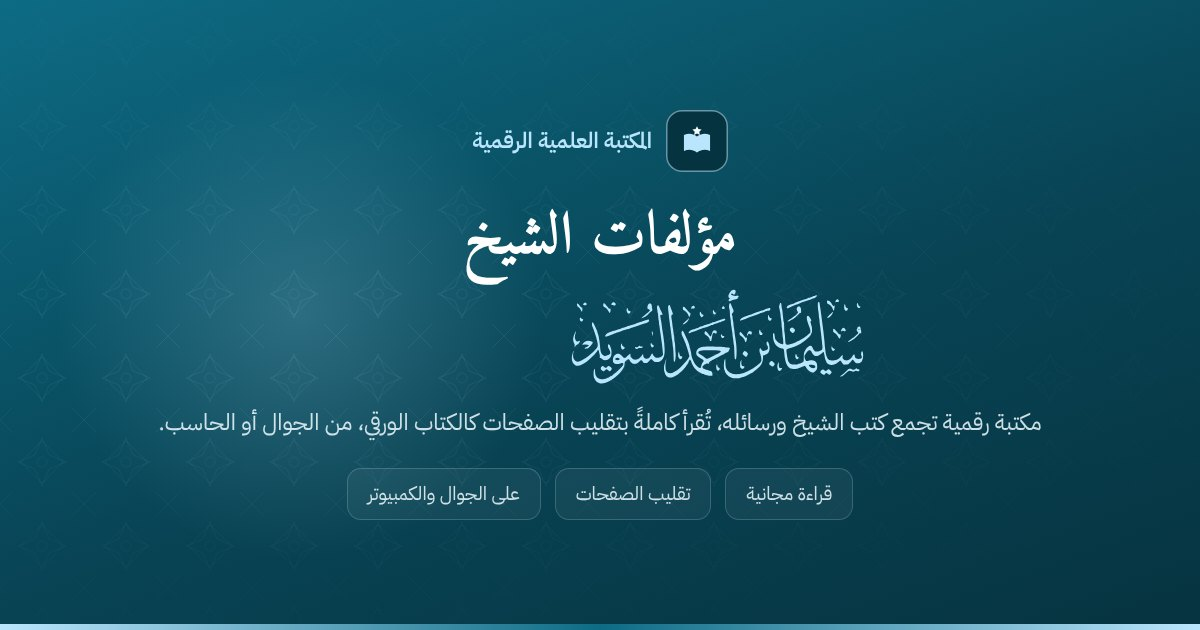
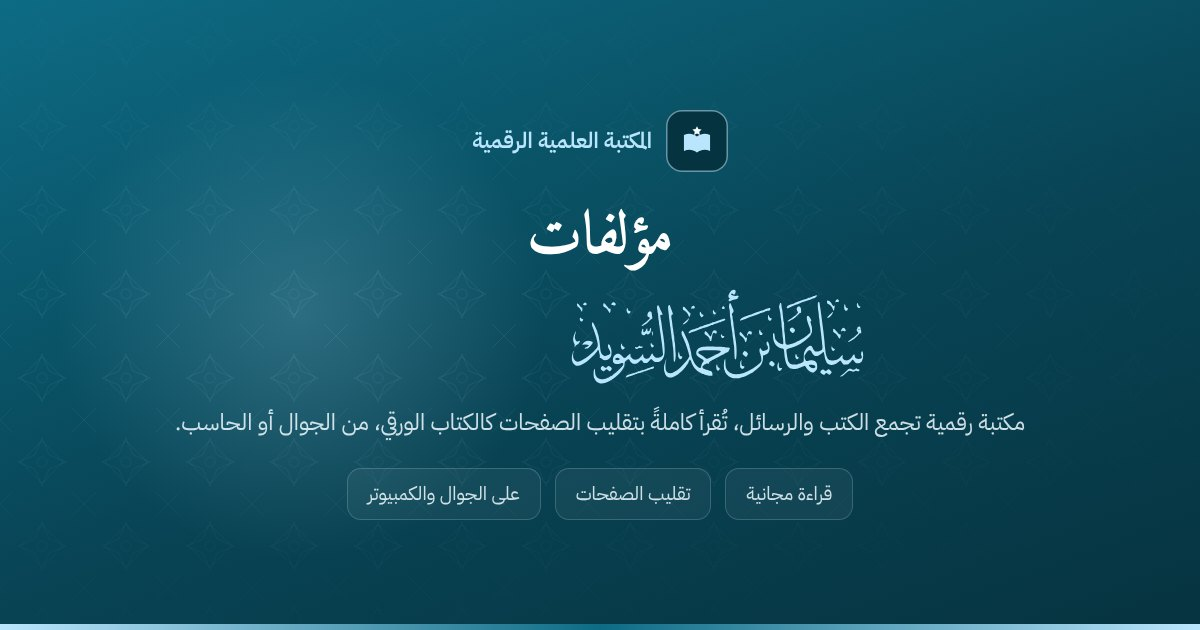
Add files via upload

Changed region(s): [[0.1233, 0.6333, 0.8633, 0.6937], [0.37, 0.3317, 0.6167, 0.4524], [0.4933, 0.4825, 0.555, 0.5429]]

diff --git a/kitab/book-01.html b/kitab/book-01.html
@@ -3,33 +3,33 @@
 <head>
 <meta charset="utf-8">
 <meta name="viewport" content="width=device-width,initial-scale=1">
-<title>الأربعون التعليمية - من حديث معلم البشرية ﷺ — سليمان بن أحمد السويد | مؤلفات الشيخ سليمان بن أحمد السويد</title>
-<meta name="description" content="كتاب «الأربعون التعليمية - من حديث معلم البشرية ﷺ» — سليمان بن أحمد السويد، من تصنيف الحديث النبوي، في ١٠٩ صفحات. اقرأه مجاناً بتقليب الصفحات في مؤلفات الشيخ سليمان بن أحمد السويد.">
-<link rel="canonical" href="https://mohdalshehri.github.io/maktaba/kitab/book-01.html">
+<title>الأربعون التعليمية - من حديث معلم البشرية ﷺ — سليمان بن أحمد السويد | مؤلفات سليمان بن أحمد السويد</title>
+<meta name="description" content="كتاب «الأربعون التعليمية - من حديث معلم البشرية ﷺ» — سليمان بن أحمد السويد، من تصنيف الحديث النبوي، في ١٠٩ صفحات. اقرأه مجاناً بتقليب الصفحات في مؤلفات سليمان بن أحمد السويد.">
+<link rel="canonical" href="https://sulaimanalsuwaid.github.io/kitab/book-01.html">
 <meta property="og:type" content="book">
 <meta property="og:locale" content="ar_SA">
-<meta property="og:site_name" content="مؤلفات الشيخ سليمان بن أحمد السويد">
+<meta property="og:site_name" content="مؤلفات سليمان بن أحمد السويد">
 <meta property="og:title" content="الأربعون التعليمية - من حديث معلم البشرية ﷺ — سليمان بن أحمد السويد">
-<meta property="og:description" content="كتاب «الأربعون التعليمية - من حديث معلم البشرية ﷺ» — سليمان بن أحمد السويد، من تصنيف الحديث النبوي، في ١٠٩ صفحات. اقرأه مجاناً بتقليب الصفحات في مؤلفات الشيخ سليمان بن أحمد السويد.">
-<meta property="og:url" content="https://mohdalshehri.github.io/maktaba/kitab/book-01.html">
-<meta property="og:image" content="https://mohdalshehri.github.io/maktaba/covers/book-01.jpg">
+<meta property="og:description" content="كتاب «الأربعون التعليمية - من حديث معلم البشرية ﷺ» — سليمان بن أحمد السويد، من تصنيف الحديث النبوي، في ١٠٩ صفحات. اقرأه مجاناً بتقليب الصفحات في مؤلفات سليمان بن أحمد السويد.">
+<meta property="og:url" content="https://sulaimanalsuwaid.github.io/kitab/book-01.html">
+<meta property="og:image" content="https://sulaimanalsuwaid.github.io/covers/book-01.jpg">
 <meta property="og:image:alt" content="الأربعون التعليمية - من حديث معلم البشرية ﷺ">
 <meta name="twitter:card" content="summary_large_image">
 <meta name="twitter:title" content="الأربعون التعليمية - من حديث معلم البشرية ﷺ">
-<meta name="twitter:description" content="كتاب «الأربعون التعليمية - من حديث معلم البشرية ﷺ» — سليمان بن أحمد السويد، من تصنيف الحديث النبوي، في ١٠٩ صفحات. اقرأه مجاناً بتقليب الصفحات في مؤلفات الشيخ سليمان بن أحمد السويد.">
-<meta name="twitter:image" content="https://mohdalshehri.github.io/maktaba/covers/book-01.jpg">
+<meta name="twitter:description" content="كتاب «الأربعون التعليمية - من حديث معلم البشرية ﷺ» — سليمان بن أحمد السويد، من تصنيف الحديث النبوي، في ١٠٩ صفحات. اقرأه مجاناً بتقليب الصفحات في مؤلفات سليمان بن أحمد السويد.">
+<meta name="twitter:image" content="https://sulaimanalsuwaid.github.io/covers/book-01.jpg">
 <script type="application/ld+json">
 {
  "@context": "https://schema.org",
  "@type": "Book",
  "name": "الأربعون التعليمية - من حديث معلم البشرية ﷺ",
  "inLanguage": "ar",
- "url": "https://mohdalshehri.github.io/maktaba/kitab/book-01.html",
- "image": "https://mohdalshehri.github.io/maktaba/covers/book-01.jpg",
+ "url": "https://sulaimanalsuwaid.github.io/kitab/book-01.html",
+ "image": "https://sulaimanalsuwaid.github.io/covers/book-01.jpg",
  "isPartOf": {
   "@type": "WebSite",
-  "name": "مؤلفات الشيخ سليمان بن أحمد السويد",
-  "url": "https://mohdalshehri.github.io/maktaba/"
+  "name": "مؤلفات سليمان بن أحمد السويد",
+  "url": "https://sulaimanalsuwaid.github.io/"
  },
  "author": {
   "@type": "Person",
@@ -79,13 +79,13 @@
   <div class="wrap">
     <a class="brand" href="../" aria-label="الصفحة الرئيسية">
       <span class="brand-mark"><svg viewBox="0 0 64 64" aria-hidden="true"><path d="M10 22c8-3.5 15-2.5 22 2.5v27c-7-5-14-6-22-2.5z M54 22c-8-3.5-15-2.5-22 2.5v27c7-5 14-6 22-2.5z" style="fill:var(--t-accent)"/><path d="M32 7l2.4 4.9 5.4.8-3.9 3.8.9 5.4L32 19.4l-4.8 2.5.9-5.4-3.9-3.8 5.4-.8z" style="fill:var(--t-bg)"/></svg></span>
-      <span class="brand-txt has-art"><b class="sr">مؤلفات الشيخ</b><small class="sr">سليمان بن أحمد السويد</small><span class="name-art" role="img" aria-label="سليمان بن أحمد السويد" style="--na:url(&quot;https://mohdalshehri.github.io/maktaba/assets/name.svg&quot;)"></span></span>
+      <span class="brand-txt has-art"><b class="sr">مؤلفات</b><small class="sr">سليمان بن أحمد السويد</small><span class="name-art" role="img" aria-label="سليمان بن أحمد السويد" style="--na:url(&quot;https://sulaimanalsuwaid.github.io/assets/name-2.svg&quot;)"></span></span>
     </a>
   </div>
 </header>
 <main class="kb">
   <div class="wrap">
-    <p class="crumb"><a href="../">مؤلفات الشيخ سليمان بن أحمد السويد</a> ‹ الحديث النبوي</p>
+    <p class="crumb"><a href="../">مؤلفات سليمان بن أحمد السويد</a> ‹ الحديث النبوي</p>
     <article class="kb-grid">
       <figure class="kb-cover"><img src="../covers/book-01.jpg" alt="الأربعون التعليمية - من حديث معلم البشرية ﷺ" width="600" height="777"></figure>
       <div class="kb-info">

diff --git a/index.html b/index.html
@@ -5,25 +5,25 @@
 <meta http-equiv="Cache-Control" content="no-cache">
 <meta name="viewport" content="width=device-width,initial-scale=1">
 <!-- SHARE:START (يُولَّد تلقائياً: python3 tools/configure.py رابط-الموقع) -->
-<title>مؤلفات الشيخ — سليمان بن أحمد السويد</title>
-<meta name="description" content="مكتبة رقمية مجانية لـسليمان بن أحمد السويد: مكتبة رقمية تجمع كتب الشيخ ورسائله، تُقرأ كاملةً بتقليب الصفحات كالكتاب الورقي، من الجوال أو الحاسب.، تُقرأ بتقليب الصفحات على الجوال والكمبيوتر.">
+<title>مؤلفات — سليمان بن أحمد السويد</title>
+<meta name="description" content="مكتبة رقمية مجانية لـسليمان بن أحمد السويد: مكتبة رقمية تجمع الكتب والرسائل، تُقرأ كاملةً بتقليب الصفحات كالكتاب الورقي، من الجوال أو الحاسب.، تُقرأ بتقليب الصفحات على الجوال والكمبيوتر.">
 <meta property="og:type" content="website">
 <meta property="og:locale" content="ar_SA">
-<meta property="og:site_name" content="مؤلفات الشيخ سليمان بن أحمد السويد">
-<meta property="og:title" content="مؤلفات الشيخ — سليمان بن أحمد السويد">
-<meta property="og:description" content="مكتبة رقمية مجانية لـسليمان بن أحمد السويد: مكتبة رقمية تجمع كتب الشيخ ورسائله، تُقرأ كاملةً بتقليب الصفحات كالكتاب الورقي، من الجوال أو الحاسب.، تُقرأ بتقليب الصفحات على الجوال والكمبيوتر.">
-<meta property="og:url" content="https://mohdalshehri.github.io/maktaba/">
-<meta property="og:image" content="https://mohdalshehri.github.io/maktaba/assets/og.jpg">
-<meta property="og:image:secure_url" content="https://mohdalshehri.github.io/maktaba/assets/og.jpg">
+<meta property="og:site_name" content="مؤلفات سليمان بن أحمد السويد">
+<meta property="og:title" content="مؤلفات — سليمان بن أحمد السويد">
+<meta property="og:description" content="مكتبة رقمية مجانية لـسليمان بن أحمد السويد: مكتبة رقمية تجمع الكتب والرسائل، تُقرأ كاملةً بتقليب الصفحات كالكتاب الورقي، من الجوال أو الحاسب.، تُقرأ بتقليب الصفحات على الجوال والكمبيوتر.">
+<meta property="og:url" content="https://sulaimanalsuwaid.github.io/">
+<meta property="og:image" content="https://sulaimanalsuwaid.github.io/assets/og.jpg">
+<meta property="og:image:secure_url" content="https://sulaimanalsuwaid.github.io/assets/og.jpg">
 <meta property="og:image:type" content="image/jpeg">
 <meta property="og:image:width" content="1200">
 <meta property="og:image:height" content="630">
-<meta property="og:image:alt" content="مؤلفات الشيخ — سليمان بن أحمد السويد">
+<meta property="og:image:alt" content="مؤلفات — سليمان بن أحمد السويد">
 <meta name="twitter:card" content="summary_large_image">
-<meta name="twitter:title" content="مؤلفات الشيخ — سليمان بن أحمد السويد">
-<meta name="twitter:description" content="مكتبة رقمية مجانية لـسليمان بن أحمد السويد: مكتبة رقمية تجمع كتب الشيخ ورسائله، تُقرأ كاملةً بتقليب الصفحات كالكتاب الورقي، من الجوال أو الحاسب.، تُقرأ بتقليب الصفحات على الجوال والكمبيوتر.">
-<meta name="twitter:image" content="https://mohdalshehri.github.io/maktaba/assets/og.jpg">
-<link rel="canonical" href="https://mohdalshehri.github.io/maktaba/">
+<meta name="twitter:title" content="مؤلفات — سليمان بن أحمد السويد">
+<meta name="twitter:description" content="مكتبة رقمية مجانية لـسليمان بن أحمد السويد: مكتبة رقمية تجمع الكتب والرسائل، تُقرأ كاملةً بتقليب الصفحات كالكتاب الورقي، من الجوال أو الحاسب.، تُقرأ بتقليب الصفحات على الجوال والكمبيوتر.">
+<meta name="twitter:image" content="https://sulaimanalsuwaid.github.io/assets/og.jpg">
+<link rel="canonical" href="https://sulaimanalsuwaid.github.io/">
 <!-- SHARE:END -->
 <link rel="apple-touch-icon" href="assets/apple-touch-icon.png">
 <meta name="theme-color" content="#0d6b84">
@@ -153,8 +153,8 @@
 <noscript>
 <style>#shelf>noscript{display:block;grid-column:1/-1}.seo-ns{line-height:1.9}.seo-ns h2{font-family:var(--display);color:var(--emerald);margin:0 0 6px}.seo-ns h3{color:var(--gold);margin:22px 0 6px;font-size:18px}.seo-ns ul{margin:0;padding-inline-start:22px}.seo-ns a{color:var(--ink)}</style>
 <section class="seo-ns" aria-label="قائمة الكتب">
-<h2>مؤلفات الشيخ سليمان بن أحمد السويد — سليمان بن أحمد السويد</h2>
-<p>مكتبة رقمية تجمع كتب الشيخ ورسائله، تُقرأ كاملةً بتقليب الصفحات كالكتاب الورقي، من الجوال أو الحاسب: كتاب واحد تُقرأ مجاناً بتقليب الصفحات على الجوال والكمبيوتر.</p>
+<h2>مؤلفات سليمان بن أحمد السويد — سليمان بن أحمد السويد</h2>
+<p>مكتبة رقمية تجمع الكتب والرسائل، تُقرأ كاملةً بتقليب الصفحات كالكتاب الورقي، من الجوال أو الحاسب: كتاب واحد تُقرأ مجاناً بتقليب الصفحات على الجوال والكمبيوتر.</p>
 <h3>الحديث النبوي</h3><ul><li><a href="kitab/book-01.html">الأربعون التعليمية - من حديث معلم البشرية ﷺ</a></li></ul>
 </section>
 </noscript>

diff --git a/read.html b/read.html
@@ -5,23 +5,23 @@
 <meta http-equiv="Cache-Control" content="no-cache">
 <meta name="viewport" content="width=device-width,initial-scale=1,viewport-fit=cover">
 <!-- SHARE:START (يُولَّد تلقائياً: python3 tools/configure.py رابط-الموقع) -->
-<title>مؤلفات الشيخ — سليمان بن أحمد السويد</title>
-<meta name="description" content="مكتبة رقمية مجانية لـسليمان بن أحمد السويد: مكتبة رقمية تجمع كتب الشيخ ورسائله، تُقرأ كاملةً بتقليب الصفحات كالكتاب الورقي، من الجوال أو الحاسب.، تُقرأ بتقليب الصفحات على الجوال والكمبيوتر.">
+<title>مؤلفات — سليمان بن أحمد السويد</title>
+<meta name="description" content="مكتبة رقمية مجانية لـسليمان بن أحمد السويد: مكتبة رقمية تجمع الكتب والرسائل، تُقرأ كاملةً بتقليب الصفحات كالكتاب الورقي، من الجوال أو الحاسب.، تُقرأ بتقليب الصفحات على الجوال والكمبيوتر.">
 <meta property="og:type" content="website">
 <meta property="og:locale" content="ar_SA">
-<meta property="og:site_name" content="مؤلفات الشيخ سليمان بن أحمد السويد">
-<meta property="og:title" content="مؤلفات الشيخ — سليمان بن أحمد السويد">
-<meta property="og:description" content="مكتبة رقمية مجانية لـسليمان بن أحمد السويد: مكتبة رقمية تجمع كتب الشيخ ورسائله، تُقرأ كاملةً بتقليب الصفحات كالكتاب الورقي، من الجوال أو الحاسب.، تُقرأ بتقليب الصفحات على الجوال والكمبيوتر.">
-<meta property="og:image" content="https://mohdalshehri.github.io/maktaba/assets/og.jpg">
-<meta property="og:image:secure_url" content="https://mohdalshehri.github.io/maktaba/assets/og.jpg">
+<meta property="og:site_name" content="مؤلفات سليمان بن أحمد السويد">
+<meta property="og:title" content="مؤلفات — سليمان بن أحمد السويد">
+<meta property="og:description" content="مكتبة رقمية مجانية لـسليمان بن أحمد السويد: مكتبة رقمية تجمع الكتب والرسائل، تُقرأ كاملةً بتقليب الصفحات كالكتاب الورقي، من الجوال أو الحاسب.، تُقرأ بتقليب الصفحات على الجوال والكمبيوتر.">
+<meta property="og:image" content="https://sulaimanalsuwaid.github.io/assets/og.jpg">
+<meta property="og:image:secure_url" content="https://sulaimanalsuwaid.github.io/assets/og.jpg">
 <meta property="og:image:type" content="image/jpeg">
 <meta property="og:image:width" content="1200">
 <meta property="og:image:height" content="630">
-<meta property="og:image:alt" content="مؤلفات الشيخ — سليمان بن أحمد السويد">
+<meta property="og:image:alt" content="مؤلفات — سليمان بن أحمد السويد">
 <meta name="twitter:card" content="summary_large_image">
-<meta name="twitter:title" content="مؤلفات الشيخ — سليمان بن أحمد السويد">
-<meta name="twitter:description" content="مكتبة رقمية مجانية لـسليمان بن أحمد السويد: مكتبة رقمية تجمع كتب الشيخ ورسائله، تُقرأ كاملةً بتقليب الصفحات كالكتاب الورقي، من الجوال أو الحاسب.، تُقرأ بتقليب الصفحات على الجوال والكمبيوتر.">
-<meta name="twitter:image" content="https://mohdalshehri.github.io/maktaba/assets/og.jpg">
+<meta name="twitter:title" content="مؤلفات — سليمان بن أحمد السويد">
+<meta name="twitter:description" content="مكتبة رقمية مجانية لـسليمان بن أحمد السويد: مكتبة رقمية تجمع الكتب والرسائل، تُقرأ كاملةً بتقليب الصفحات كالكتاب الورقي، من الجوال أو الحاسب.، تُقرأ بتقليب الصفحات على الجوال والكمبيوتر.">
+<meta name="twitter:image" content="https://sulaimanalsuwaid.github.io/assets/og.jpg">
 <!-- SHARE:END -->
 <link rel="apple-touch-icon" href="assets/apple-touch-icon.png">
 
